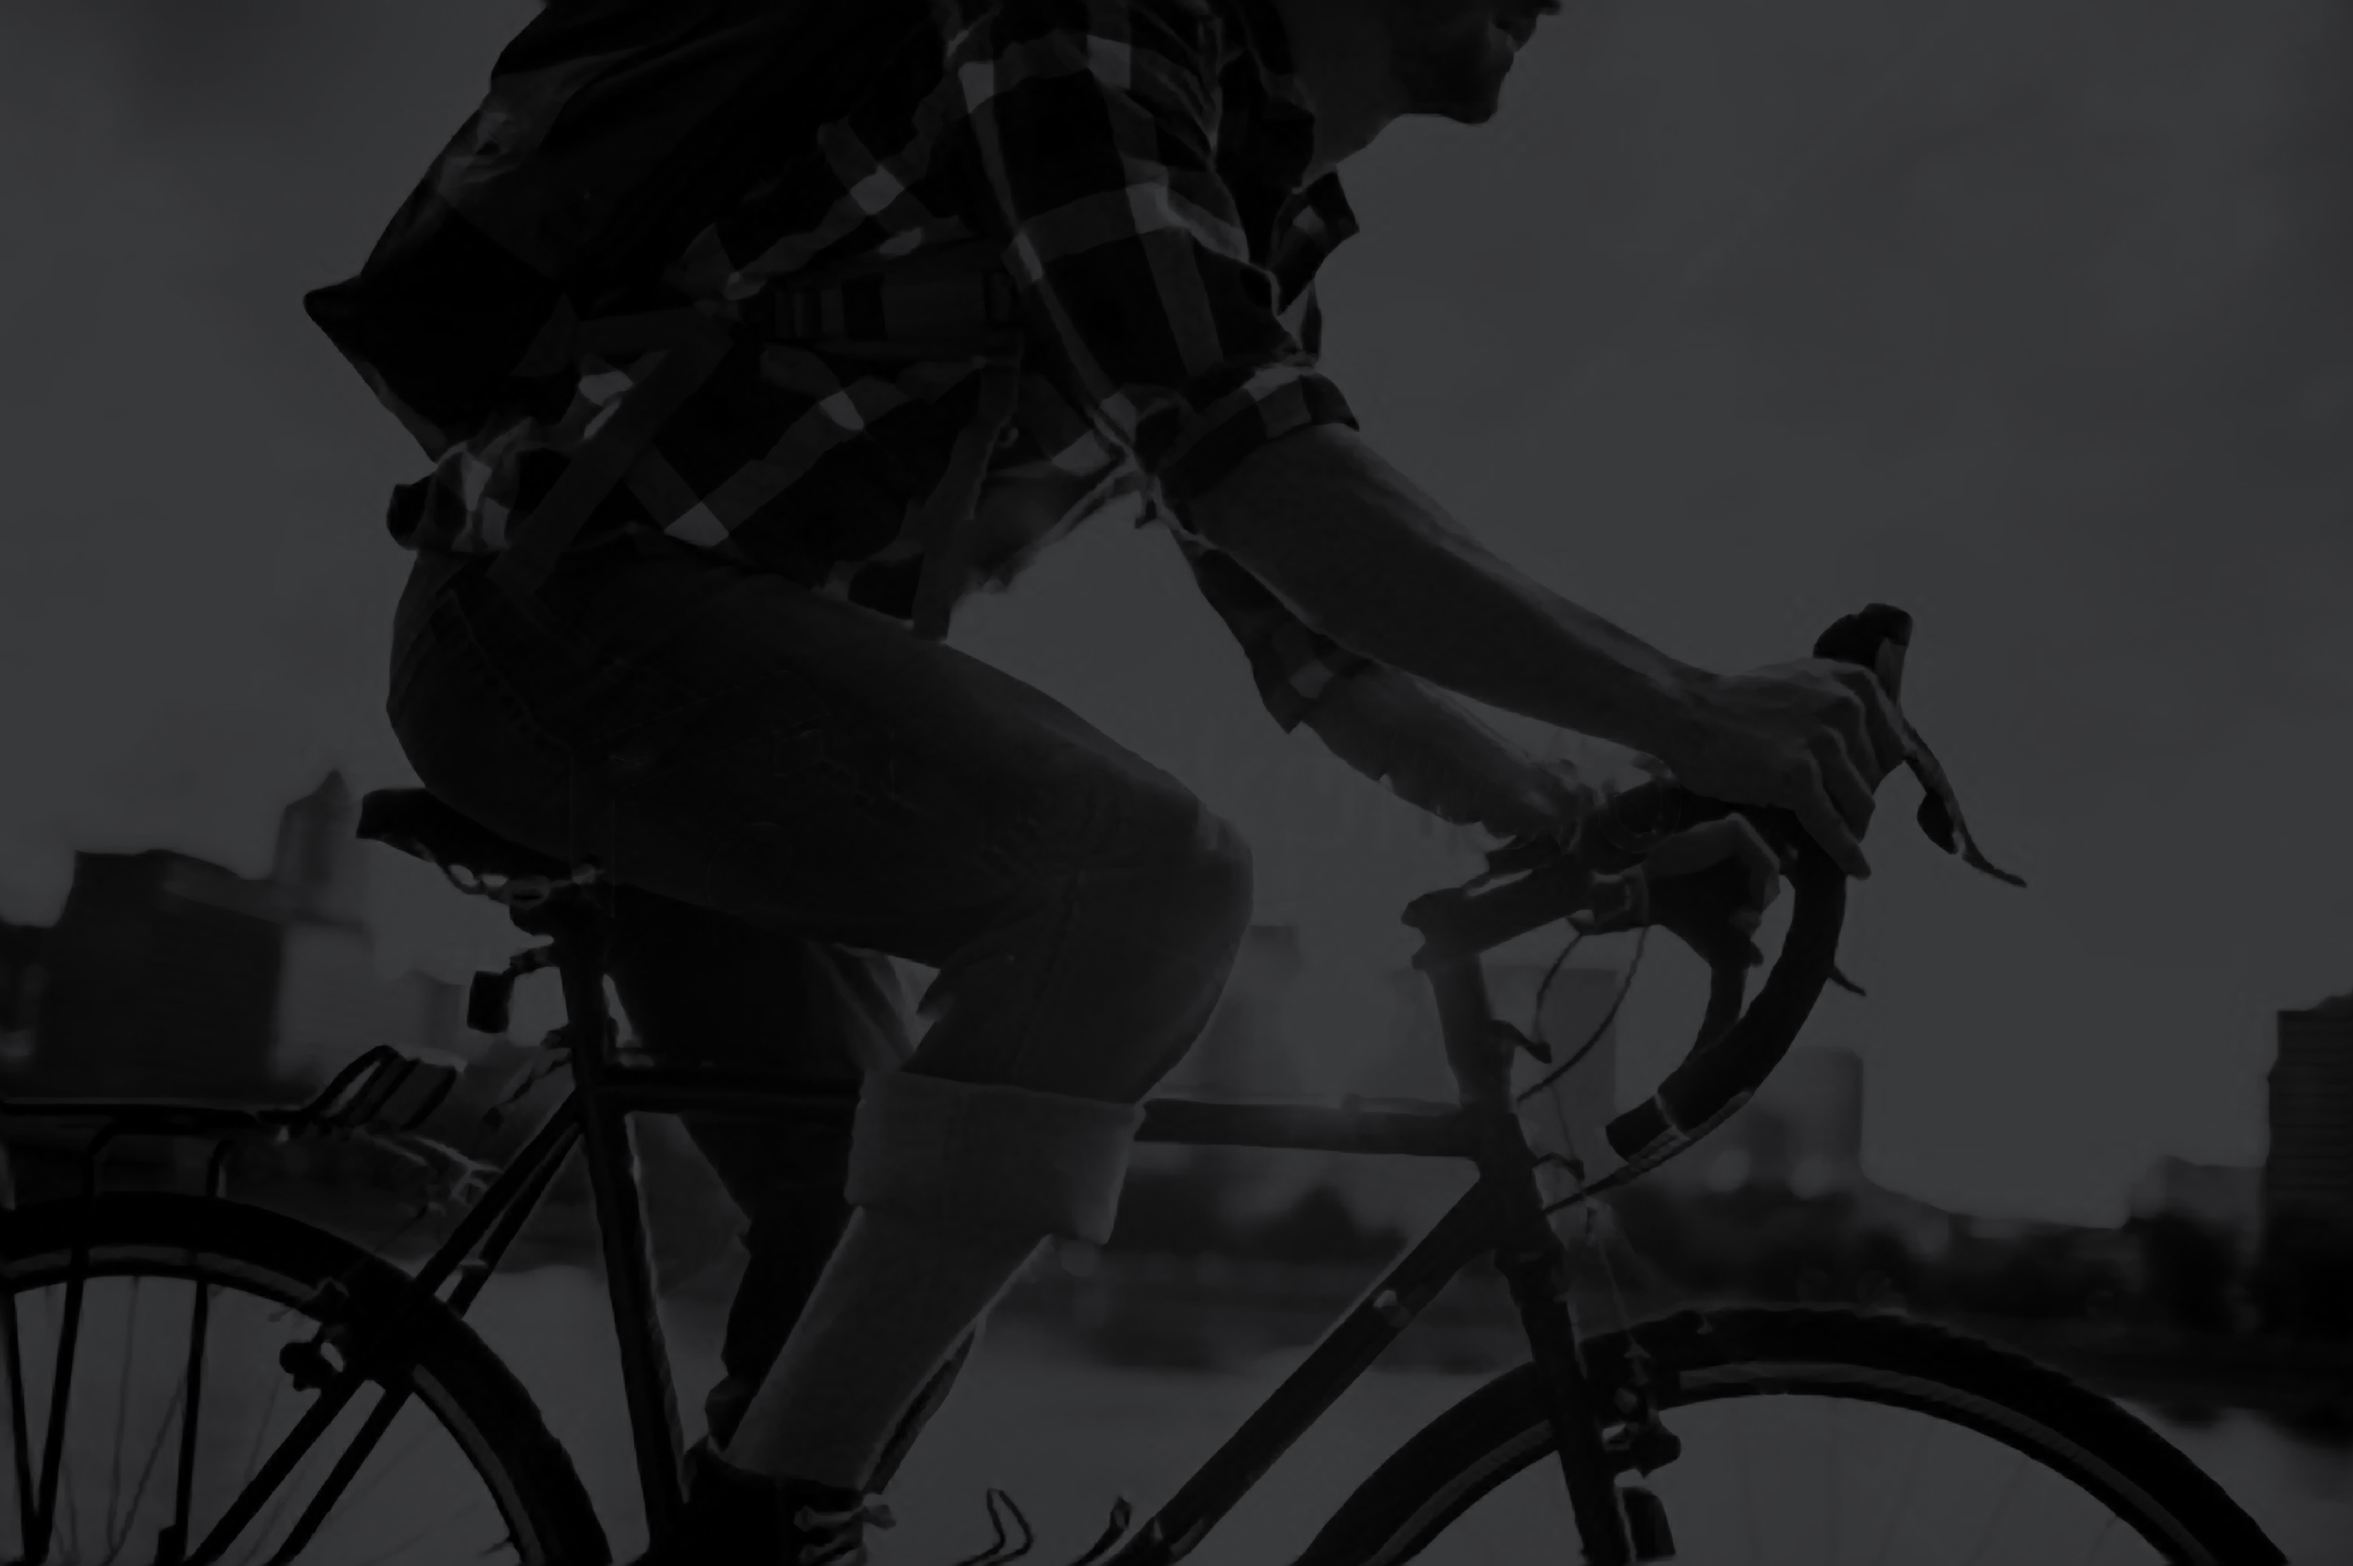
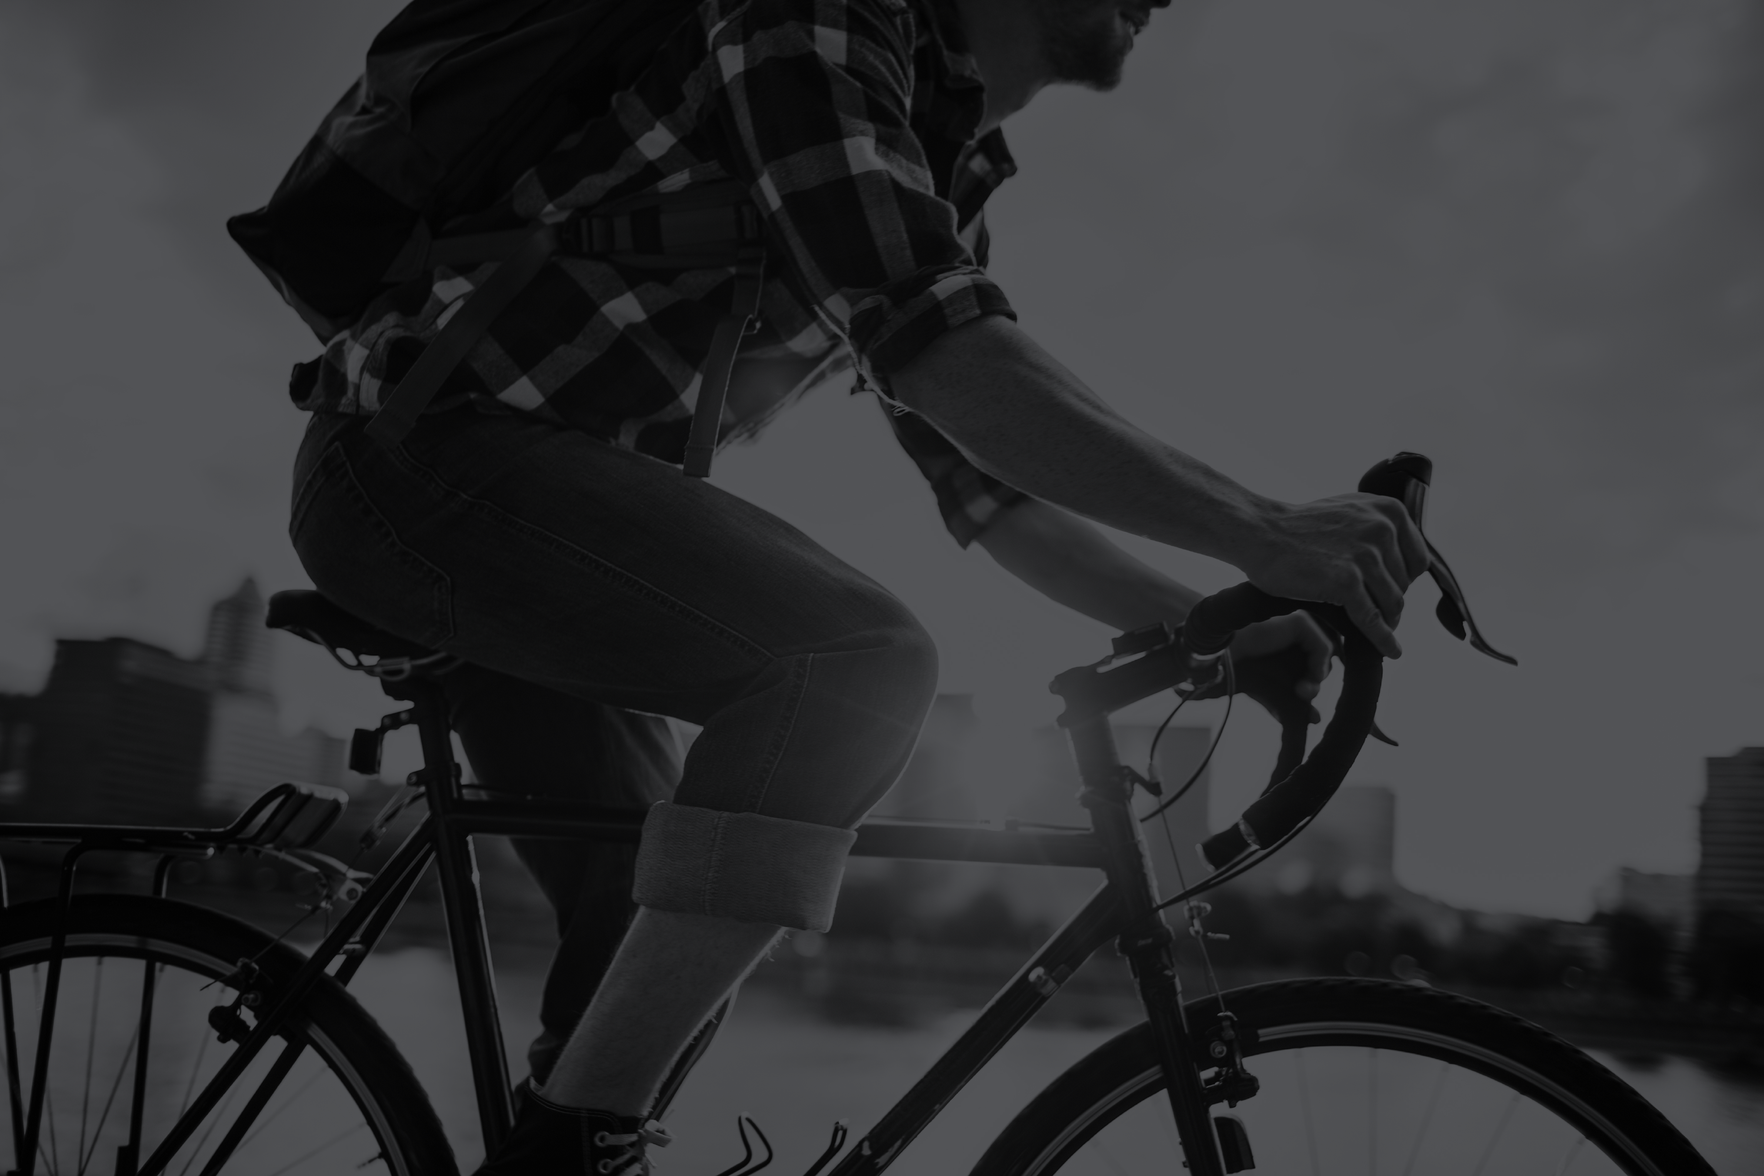
images and sizing changes

diff --git a/source/stylesheets/modules/_intro.scss b/source/stylesheets/modules/_intro.scss
@@ -1,6 +1,6 @@
 .m-intro {
   padding-bottom: 4em;
-  background: $dark-gray image-url("cycle-bg-light.jpg") no-repeat center center;
+  background: $dark-gray image-url("cycle-bg.jpg") no-repeat center center;
   @include background-size(cover);
   color: $white;
 
@@ -10,15 +10,16 @@
   
   .intro-logo {
     float: left;
-    width: 6em;
-    margin-bottom: 4em;
+    width: 4em;
+    margin: 1em 0 2em 0;
 
     img {
       width: 100%;
     }
 
     @include media-ie($breakpoint-ipad) {
-      width: 10em;
+      width: 8em;
+      margin-bottom: 6em;
     }
 
   }
@@ -27,7 +28,7 @@
     @include unstyled-list;
     float: right;
     margin: 0.5em 0;
-    font-size: 1.5em;
+    font-size: 1em;
 
     li {
       display: inline-block;
@@ -39,6 +40,7 @@
   
   .intro-callout {
     h1 {
+      margin-bottom: 0;
       font-size: 3em;
       font-weight: 900;
 
